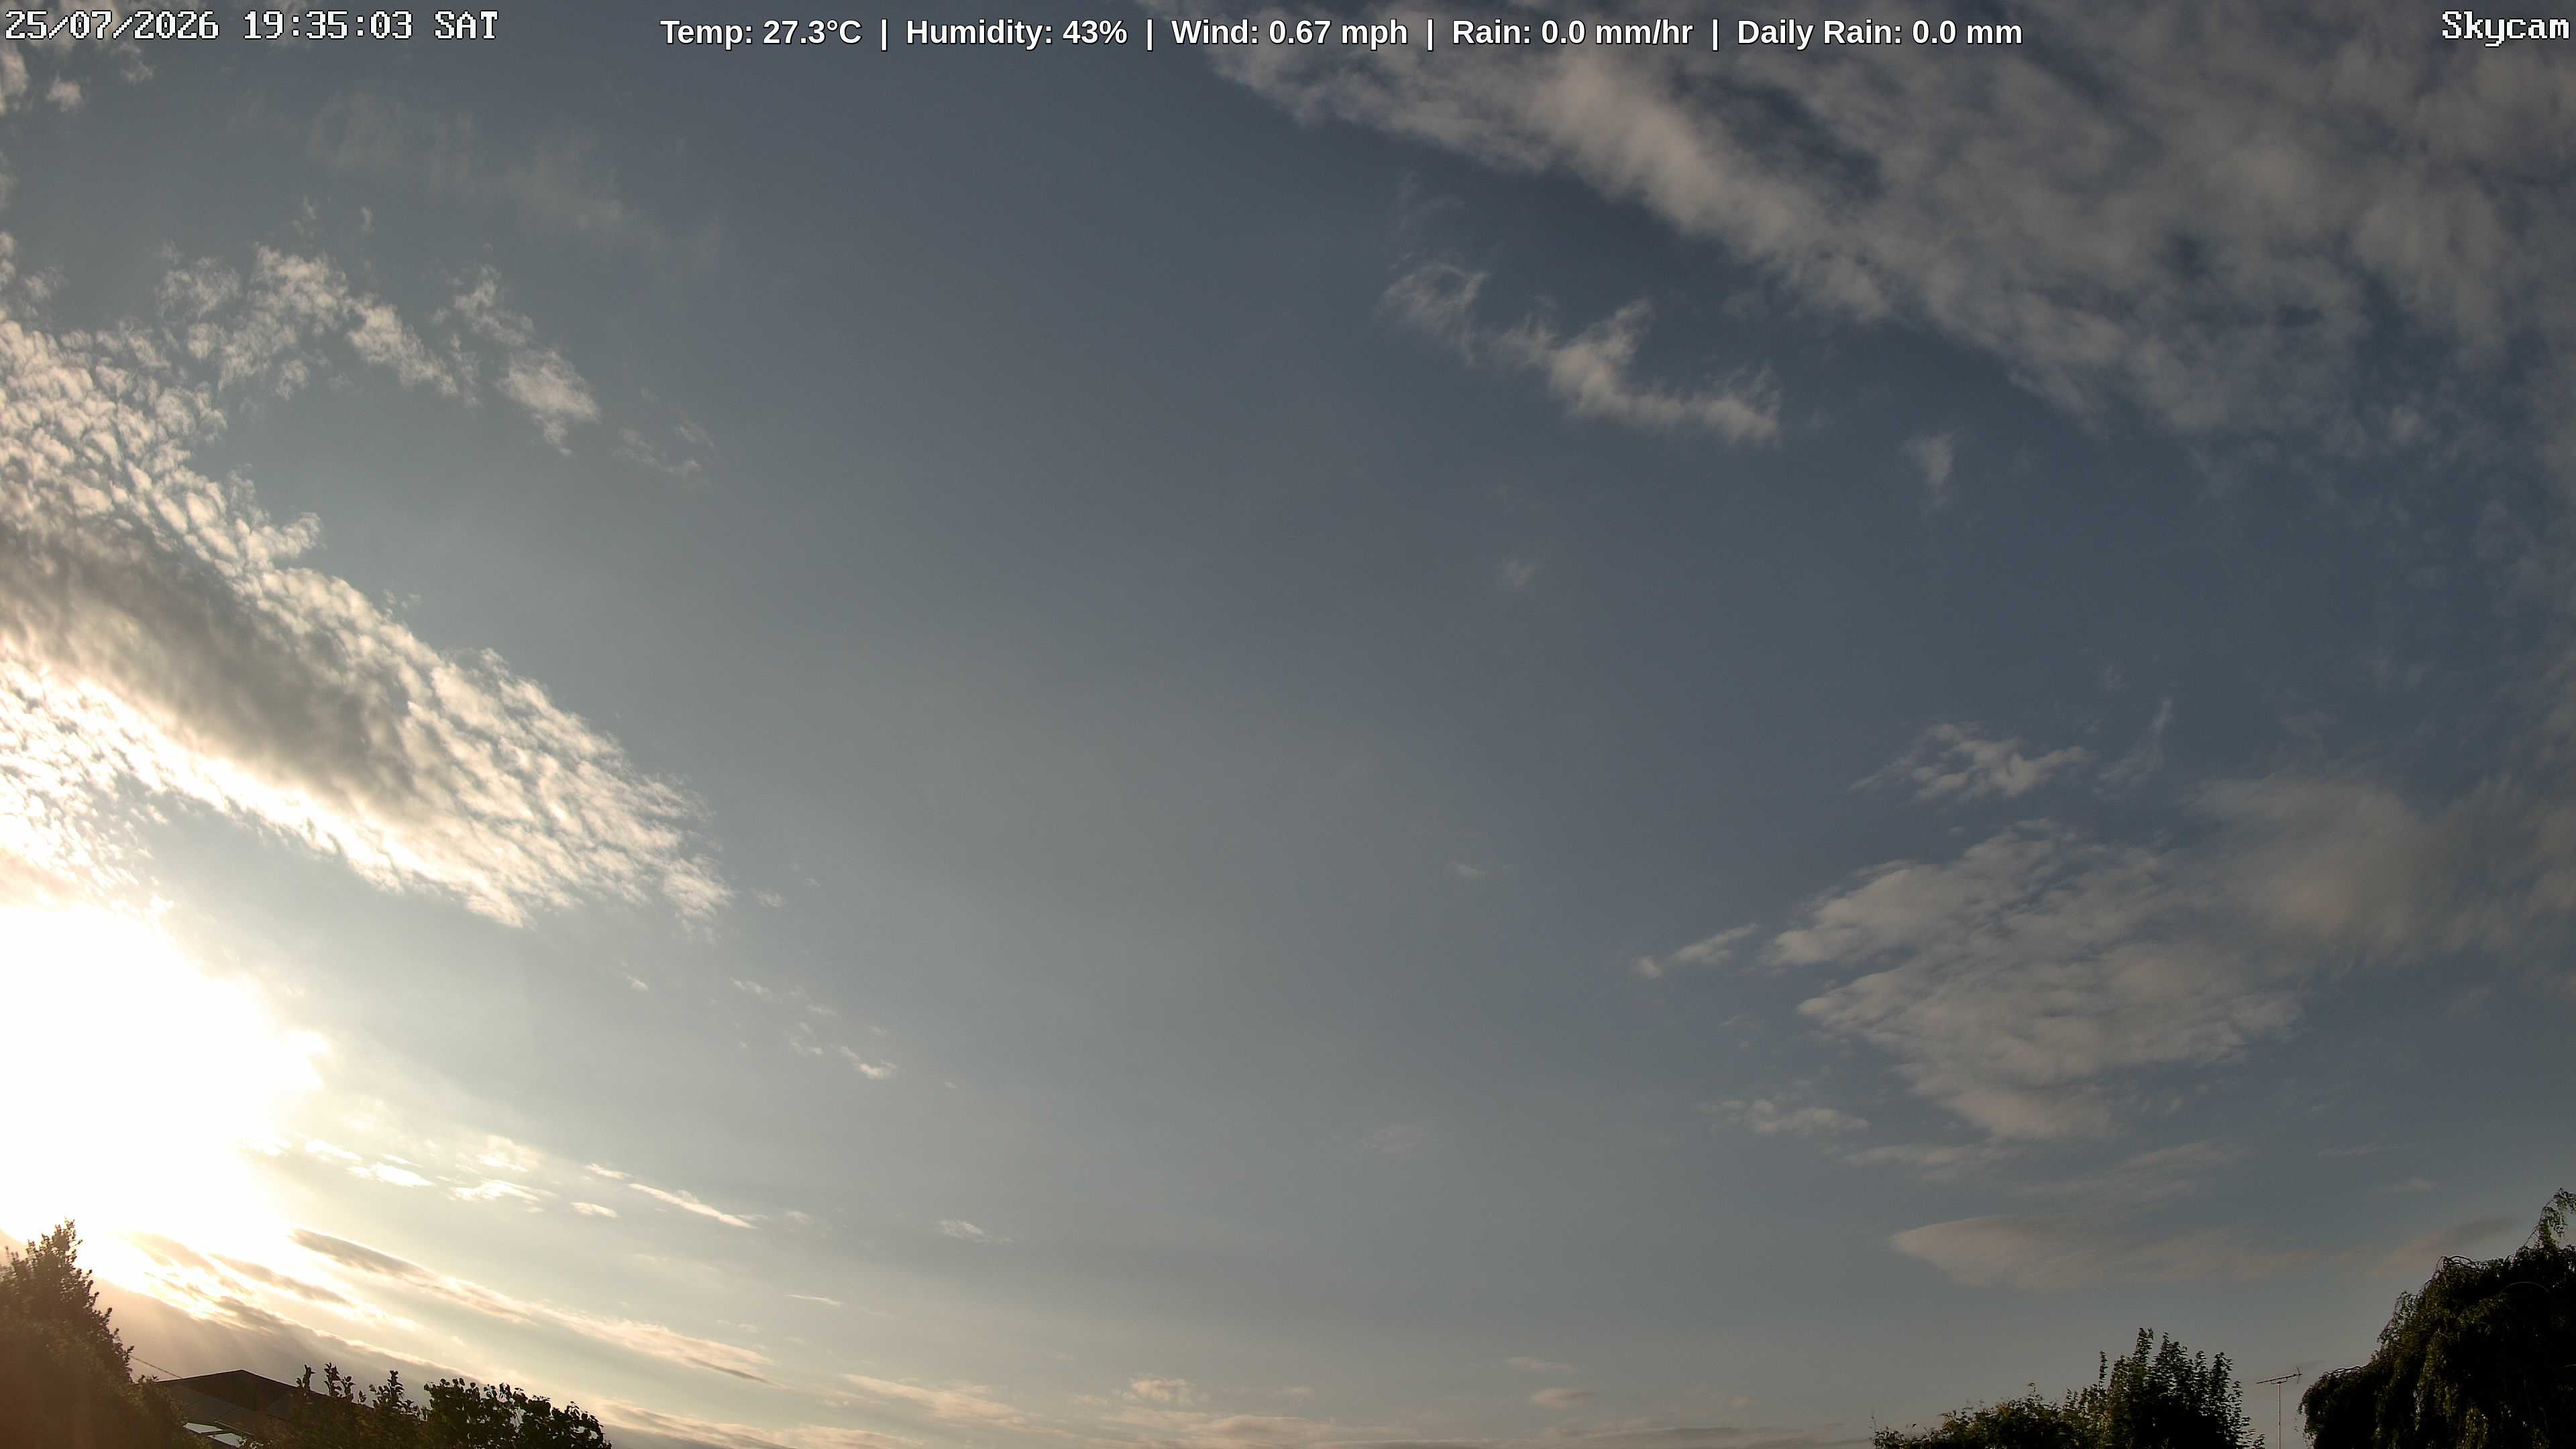
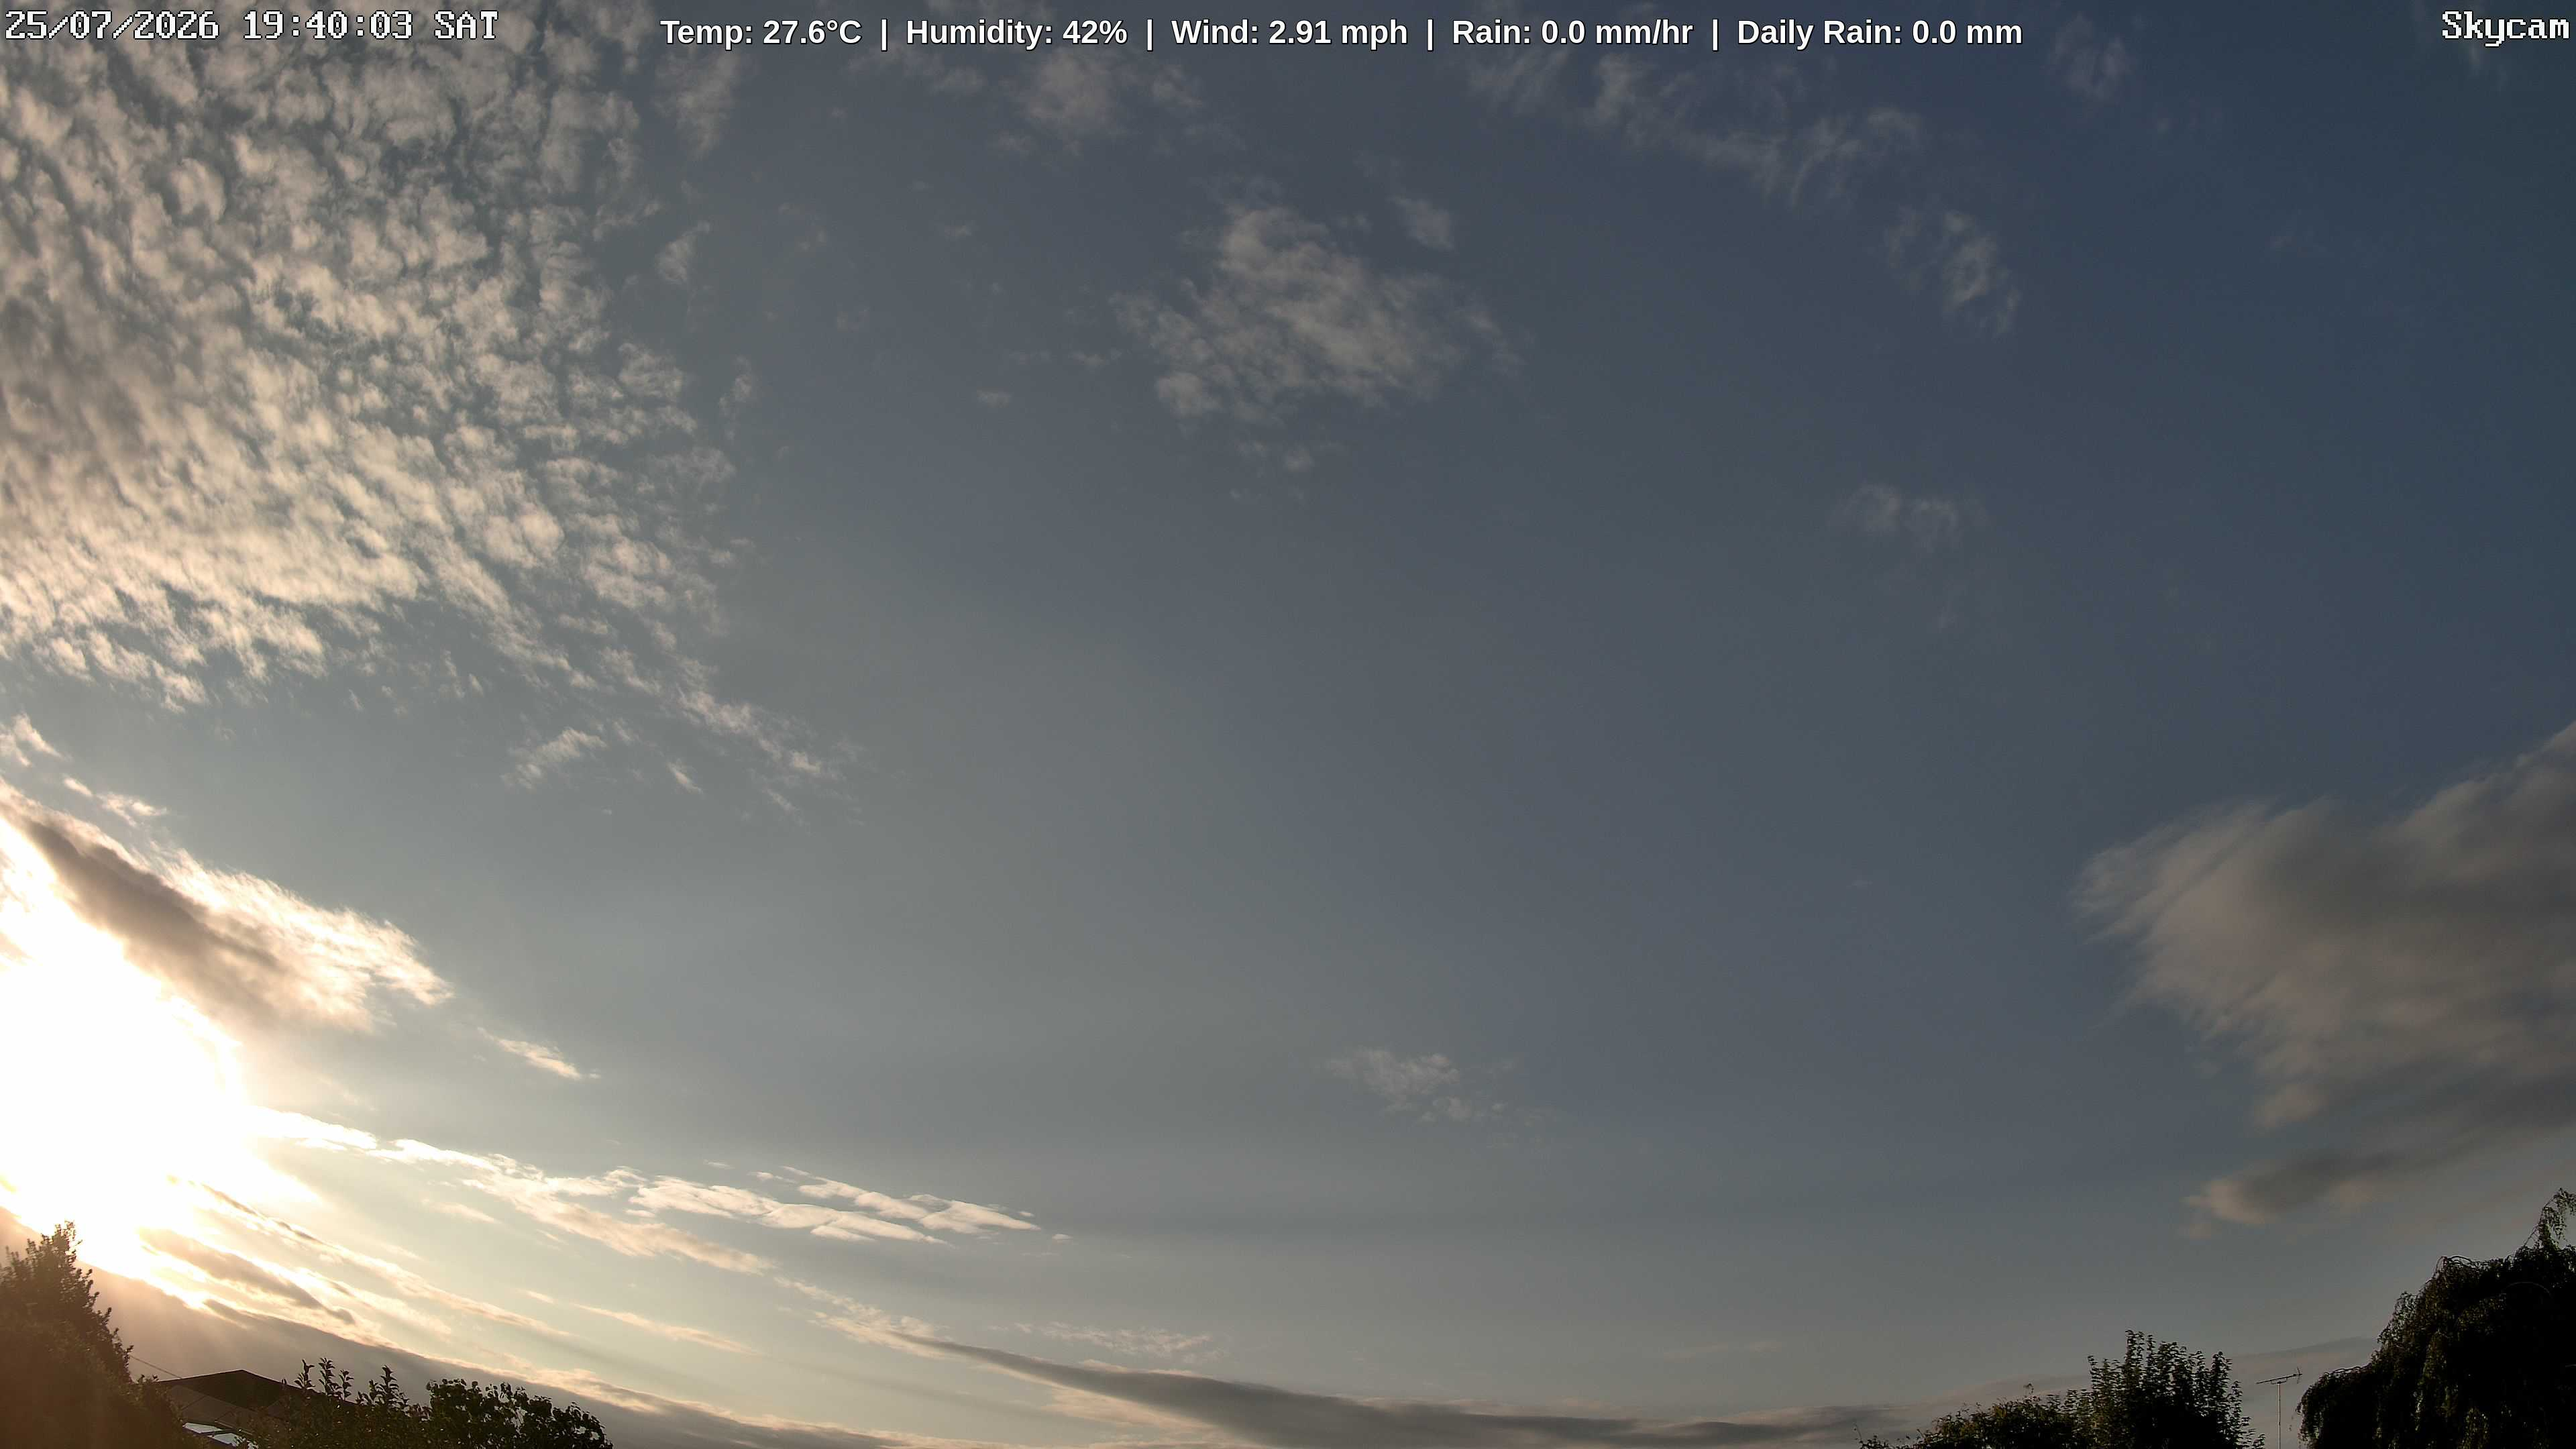
Update weather cam image with synchronized dual-layer weather metrics

diff --git a/index.html b/index.html
@@ -32,7 +32,7 @@
 </head>
 <body>
     <img id="weathercam" alt="Live Weather Snapshot">
-    <div class="banner">Temp: 27.3°C  |  Humidity: 43%  |  Wind: 0.67 mph  |  Rain: 0.0 mm/hr  |  Daily Rain: 0.0 mm</div>
+    <div class="banner">Temp: 27.6°C  |  Humidity: 42%  |  Wind: 2.91 mph  |  Rain: 0.0 mm/hr  |  Daily Rain: 0.0 mm</div>
 
     <script>
         // Shatter mobile cache engines by appending a live unique runtime timestamp 
